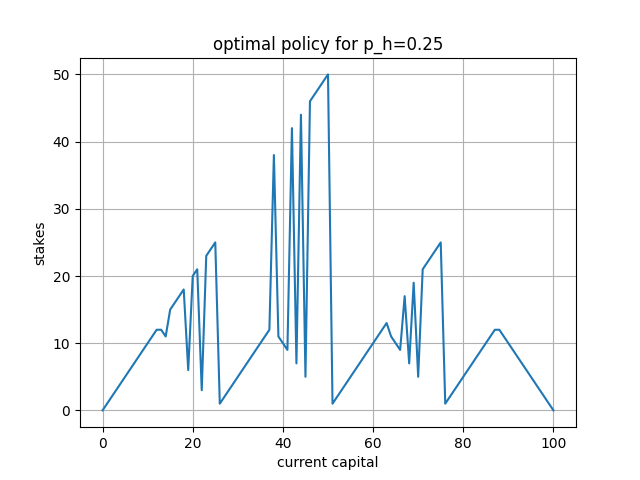
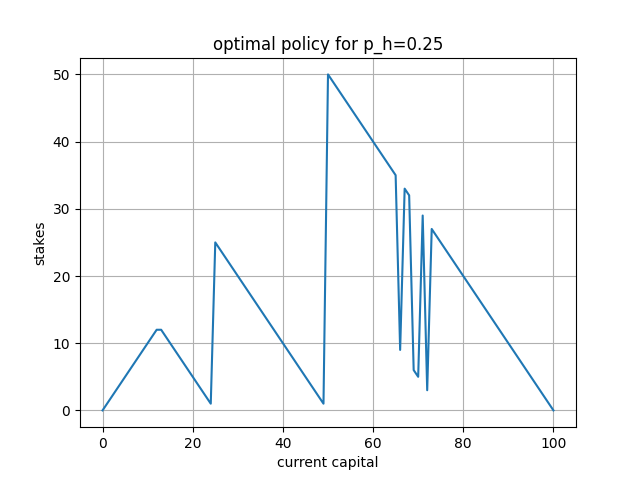
select the highest action if value tied

diff --git a/hw4/1a.py b/hw4/1a.py
@@ -5,7 +5,9 @@ def main():
     p_h = 0.25
     p_t = 1-p_h
     discount = 1
-    values = np.zeros(100+1)
+    values = np.random.rand(100+1)
+    values[0] = 0
+    values[100] = 0
     
     while True:
         old = values.copy()
@@ -30,7 +32,8 @@ def main():
     
     policy = np.zeros(101)
     for s in range(1, 100):
-        next_state_values = []
+        best_action = 1
+        best_v = 0
         for a in range(1, min(s, 100-s)+1):
             winning_state = s+a
             losing_state = s-a
@@ -39,8 +42,10 @@ def main():
             reward = 1 if winning_state >= 100 else 0
             v = p_h*(reward + discount*values[winning_state]) + \
                 p_t*(discount*values[losing_state])
-            next_state_values.append(v)
-        policy[s] = np.argmax(next_state_values) + 1
+            if v >= best_v:
+                best_v = v
+                best_action = a
+        policy[s] = best_action
     
     print(policy)
     np.save(f'{p_h} policy', policy)

diff --git a/hw4/1c.py b/hw4/1c.py
@@ -37,11 +37,11 @@ def monte_carlo(policy: np.ndarray, p_h, num_of_episodes=1000, discount=1):
         for t, s in reversed(list(enumerate(state_history))):
             g = reward_history[t] + discount*g
             table[s].append(g)
-            
+    
     return np.array([np.mean(table[s]) if len(table[s]) > 0 else 0 for s in table])
     
 def main():
-    p_h = 0.25
+    p_h = 0.55
     values = monte_carlo(np.load(f'{p_h} policy.npy'), p_h=p_h, num_of_episodes=10000)
     np.save(f'{p_h} monte_carlo', values)
     
